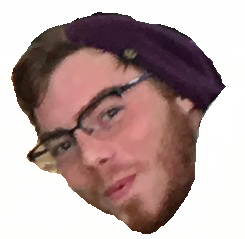
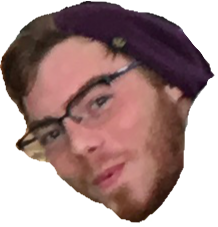
spinning heads

diff --git a/public/css/creators.css b/public/css/creators.css
@@ -24,32 +24,32 @@ h4 {
     font-size: 20pt;
 }
 #eddie{
-    height: 75px;
-    width: 75px;
+    height: 100px;
+    width: 100px;
     background-image: url('../img/eddie_img.png');
     background-size: contain;
     background-repeat: no-repeat;
     position: absolute;
 }
 #jim{
-    height: 75px;
-    width: 75px;
+    height: 100px;
+    width: 100px;
     background-image: url('../img/jimbobo_img.png');
     background-size: contain;
     background-repeat: no-repeat;
     position: absolute;
 }
 #henry{
-    height: 75px;
-    width: 75px;
+    height: 100px;
+    width: 100px;
     background-image: url('../img/henry_img.png');
     background-size: contain;
     background-repeat: no-repeat;
     position: absolute;
 }
 #stephen{
-    height: 75px;
-    width: 75px;
+    height: 100px;
+    width: 100px;
     background-image: url('../img/stephen_img.png');
     background-size: contain;
     background-repeat: no-repeat;
@@ -63,7 +63,13 @@ i{
     -webkit-animation: 'screen'  infinite;
   animation: 'screen'  infinite;
 }
-
+.head {
+    animation: 3s rotateRight infinite linear;
+}
+@keyframes rotateRight {
+    0%{transform:rotate(0deg); transform-origin: 50% 50%;}
+    100%{transform:rotate(360deg);}
+}
 
 i:nth-child(1){
     top:20px;

diff --git a/public/creators.html b/public/creators.html
@@ -24,10 +24,10 @@
             <h2>Sarah</h2>
         </marquee>
     </div>
-    <div id="eddie"></div>
-    <div id="jim"></div>
-    <div id="henry"></div>
-    <div id="stephen"></div>
+    <div class='head' id="eddie"></div>
+    <div class='head' id="jim"></div>
+    <div class='head' id="henry"></div>
+    <div class='head' id="stephen"></div>
   <i></i>
     <i></i>
     <i></i>
